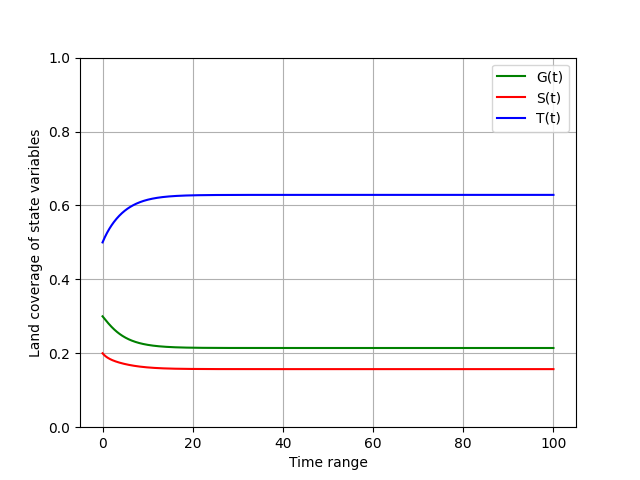
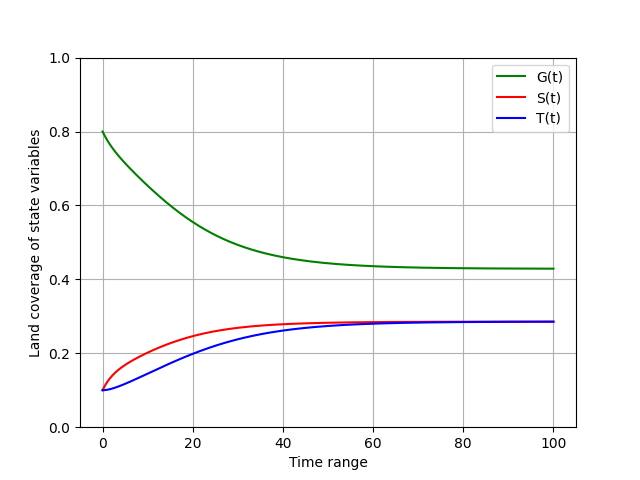
Equilibrium E4 simmulation

diff --git a/Project/project.py b/Project/project.py
@@ -43,9 +43,9 @@ def ode_system(u, t):
     return ans
 
 #First Simulation
-G0 = 0.3
-S0 = 0.2
-T0 = 0.5
+G0 = 0.8
+S0 = 0.1
+T0 = 0.1
 u0 = [G0, S0, T0]
 t0 = 0
 tf = 100
